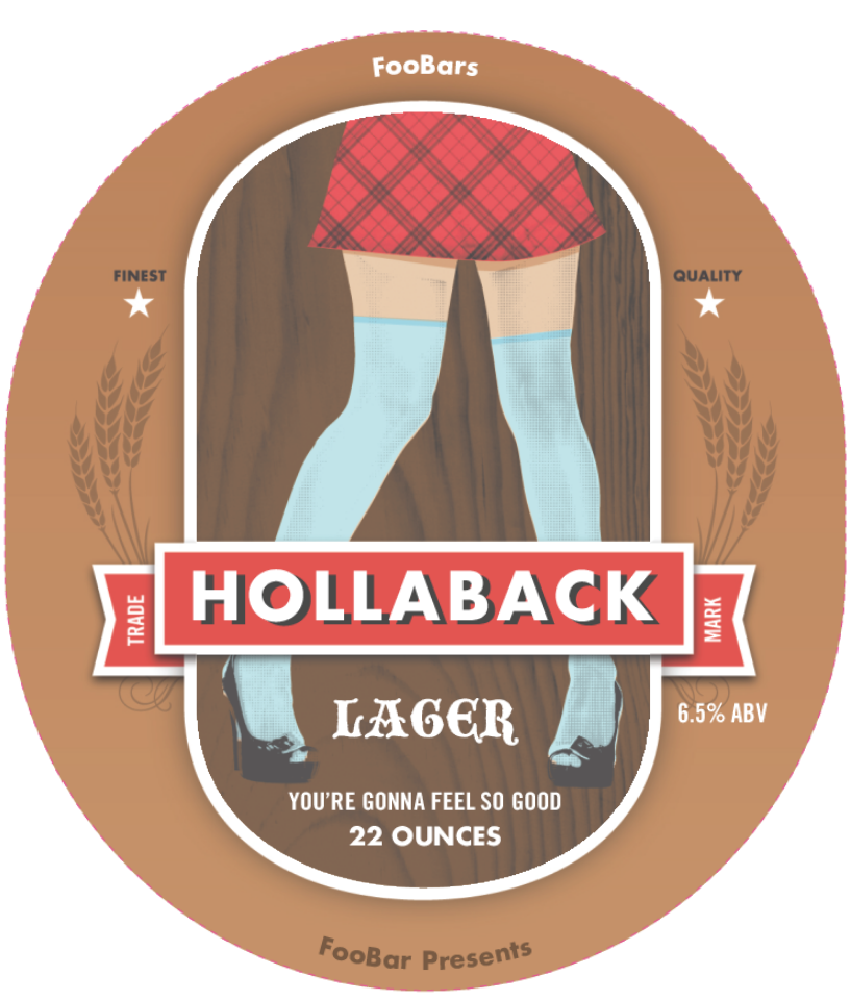
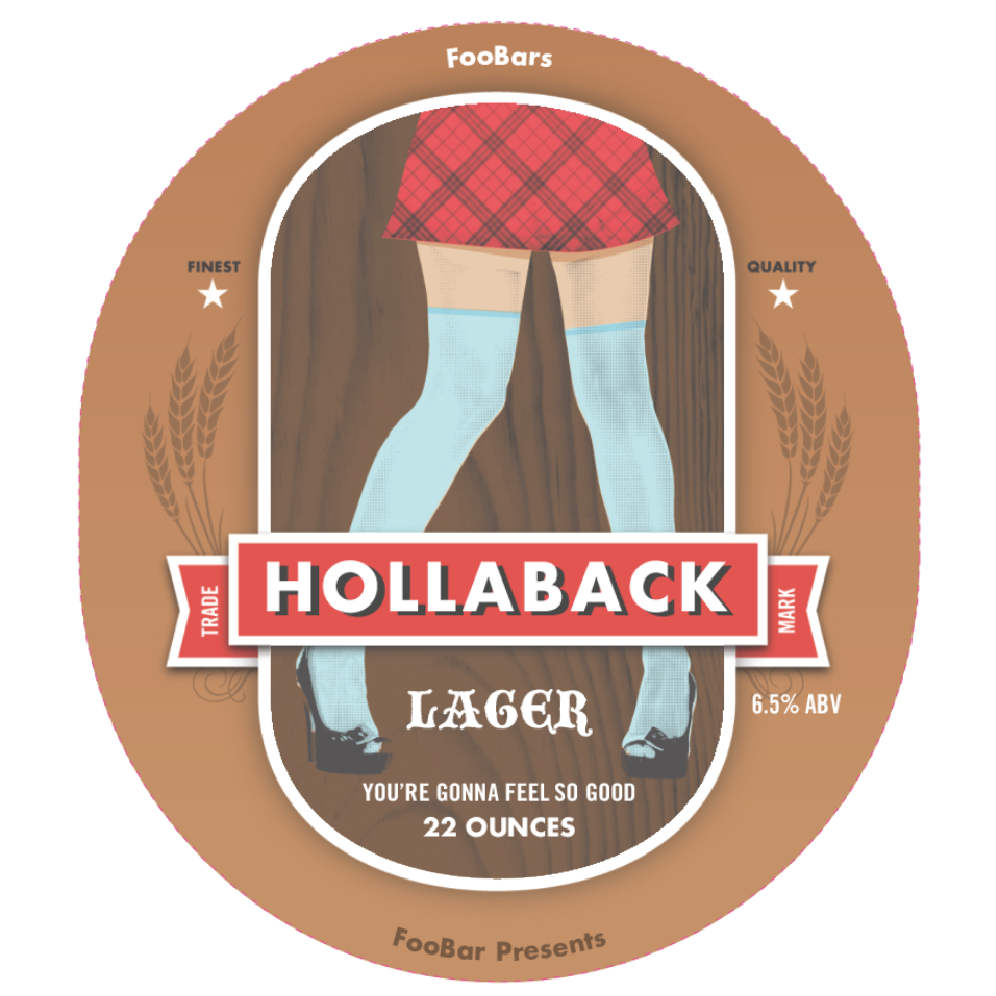
optimizing images

diff --git a/src/components/Product.js b/src/components/Product.js
@@ -2,9 +2,7 @@ export default function Product(props) {
   return (
     <article className="Product">
       <h3>{props.name}</h3>
-      <div className="beer-logo">
-      <img src={`/images/${props.label}`} alt="beer brand logo"></img>
-      </div>
+      <img className="beer-logo" src={`/images/${props.label}`} alt="beer brand logo"></img>
       <h4>{props.category}</h4>
       <p>Alcohol: {props.alc}%</p>
       <p>{props.description.overallImpression}</p>

diff --git a/src/App.css b/src/App.css
@@ -170,13 +170,10 @@ h1 {
   top: 30px;
   right: 30px;
   width: 70px;
-  height: 70px;
-  border-radius: 5px;
+  min-height: 70px;
+  height: auto;
+  border-radius: 10px;
   overflow: hidden;
-}
-
-.beer-logo img {
-  width: 70px;
 }
 
 /* Cart */
